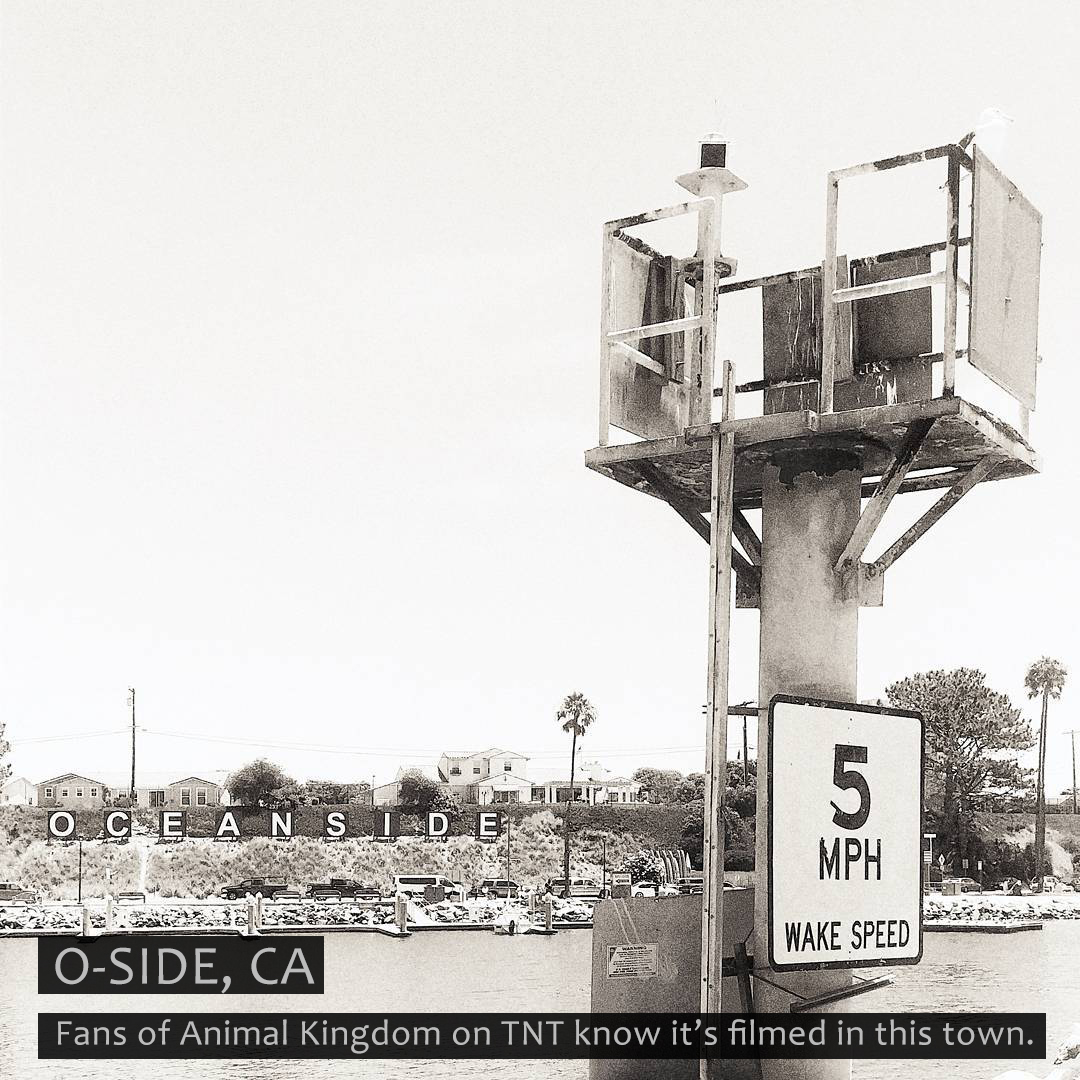
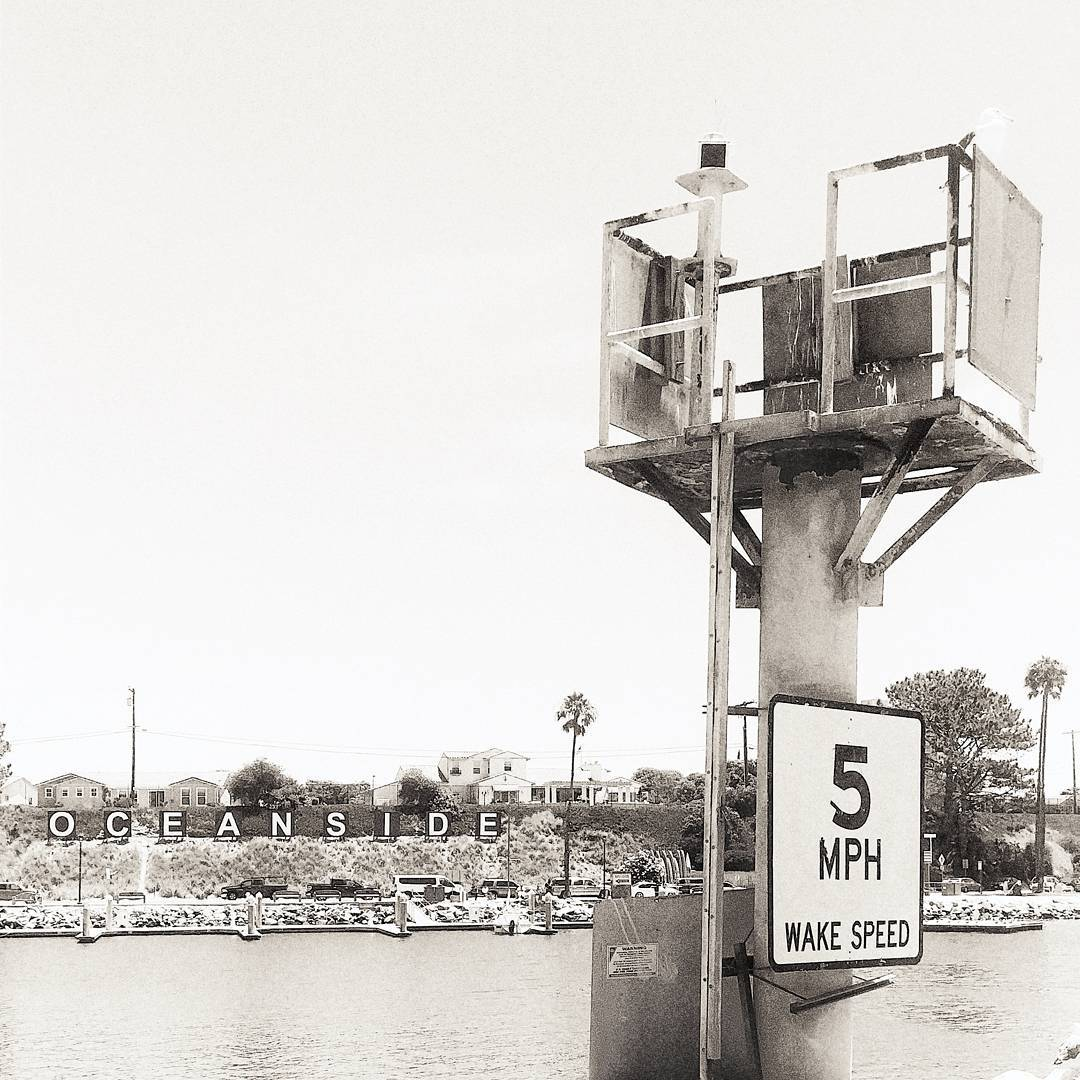
Added title and sentence as an overlay on each slide and replaced images that had text embedded. Also added transparent left and right arrow areas. #1

Changed region(s): [[0.0306, 0.8556, 0.9778, 1.0]]

diff --git a/slider.html b/slider.html
@@ -1,0 +1,83 @@
+<!DOCTYPE html>
+<html lang="en-us">
+<head>
+  <meta charset="utf-8">
+  <meta name="viewport" content="width=device-width, initial-scale=1">
+  <link href="https://fonts.googleapis.com/css?family=Montserrat+Subrayada" rel="stylesheet">
+  <link rel="stylesheet" href="https://use.fontawesome.com/releases/v5.1.1/css/all.css" integrity="sha384-O8whS3fhG2OnA5Kas0Y9l3cfpmYjapjI0E4theH4iuMD+pLhbf6JI0jIMfYcK3yZ" crossorigin="anonymous">
+  <link rel="stylesheet" type="text/css" href="styles.css">
+  <link rel="stylesheet" href="slider.css">
+  <title>Infinite Loop Responsive Carousel</title>
+</head>
+<body>
+
+<div class="container">
+<h2 class="header-text">Responsive Carousel</h2>
+<div class="slider">
+  <ul>
+    <li>
+      <img src="images/mojo.jpg" />
+      <div class="content">MOJO<br><span>The world's greatest dog.</span></div>
+    </li>
+    <li>
+      <img src="images/o-side.jpg" />
+      <div class="content">O-SIDE, CA</div>
+    </li>
+    <li>
+      <img src="images/psychic.jpg" />
+      <div class="content">CLOSED</div>
+    </li>
+    <li>
+      <img src="images/tbone.jpg" />
+      <div class="content">TBONE</div>
+    </li>
+    <li>
+      <img src="images/trespass.jpg" />
+      <div class="content">KEEP OUT</div>
+    </li>
+  </ul>
+  <button class="prev">prev</button>
+  <button class="next">next</button>
+</div>
+
+
+
+
+
+      <!-- <div data-link="1" class="img-box">
+				<img src="images/trespass.jpg" alt="forbidden">
+			</div>
+			<div data-link="2" class="img-box">
+				<img src="images/tbone.jpg" alt="tbone">
+			</div>
+			<div data-link="3" class="img-box">
+				<img src="images/psychic.jpg" alt="psychic">
+      </div>
+      <div data-link="4" class="img-box">
+				<img src="images/mojo.jpg" alt="Mojo">
+      </div>
+      <div data-link="5" class="img-box">
+				<img src="images/o-side.jpg" alt="Oceanside">
+      </div> -->
+
+  </div>
+  <div class="arrows no-select">
+    <i class="fas fa-chevron-left arrows" id="leftArrow"></i>
+    <i class="fas fa-chevron-right arrows" id="rightArrow"></i>
+  </div>
+  <div class="dots">
+    <div class="dotstyle dotstyle-fillup">
+			<ul class="dots-ul">
+				<li data-num="1" class="current"><span></span></li>
+				<li data-num="2"><span></span></li>
+				<li data-num="3"><span></span></li>
+				<li data-num="4"><span></span></li>
+				<li data-num="5"><span></span></li>
+			</ul>
+    </div>
+  </div>
+
+<script src="https://ajax.googleapis.com/ajax/libs/jquery/3.3.1/jquery.min.js"></script>
+<script src="slider.js"></script>
+</body>
+</html>

diff --git a/slider.js b/slider.js
@@ -1,0 +1,38 @@
+$(function() {
+
+var ul = $(".slider ul");
+var slide_count = ul.children().length;
+var slide_width_pc = 100.0 / slide_count;
+var slide_index = 0;
+
+ul.find("li").each(function(indx) {
+var left_percent = (slide_width_pc * indx) + "%";
+$(this).css({"left":left_percent});
+$(this).css({width:(100 / slide_count) + "%"});
+});
+
+// Listen for click of prev button
+$(".slider .prev").click(function() {
+slide(slide_index - 1);
+});
+
+// Listen for click of next button
+$(".slider .next").click(function() {
+slide(slide_index + 1);
+});
+
+function slide(new_slide_index) {
+
+if(new_slide_index < 0 || new_slide_index >= slide_count) return;
+
+var margin_left_pc = (new_slide_index * (-100)) + "%";
+
+ul.animate({"margin-left": margin_left_pc}, 400, function() {
+
+slide_index = new_slide_index
+
+});
+
+}
+
+});

diff --git a/slider.css b/slider.css
@@ -62,3 +62,21 @@
 .slider button:active {
   opacity: 1;
 }
+
+.slider .content {
+z-index: 3;
+position: absolute;
+bottom: 0;
+left: 0;
+right: 0;
+height: 3em;
+box-sizing: border-box;
+background-color: rgba(0, 0, 0, 0.5);
+color: #fff;
+padding: 0.5em 1em;
+font-size: 1em;
+}
+
+.slider .content a {
+color: inherit;
+}
